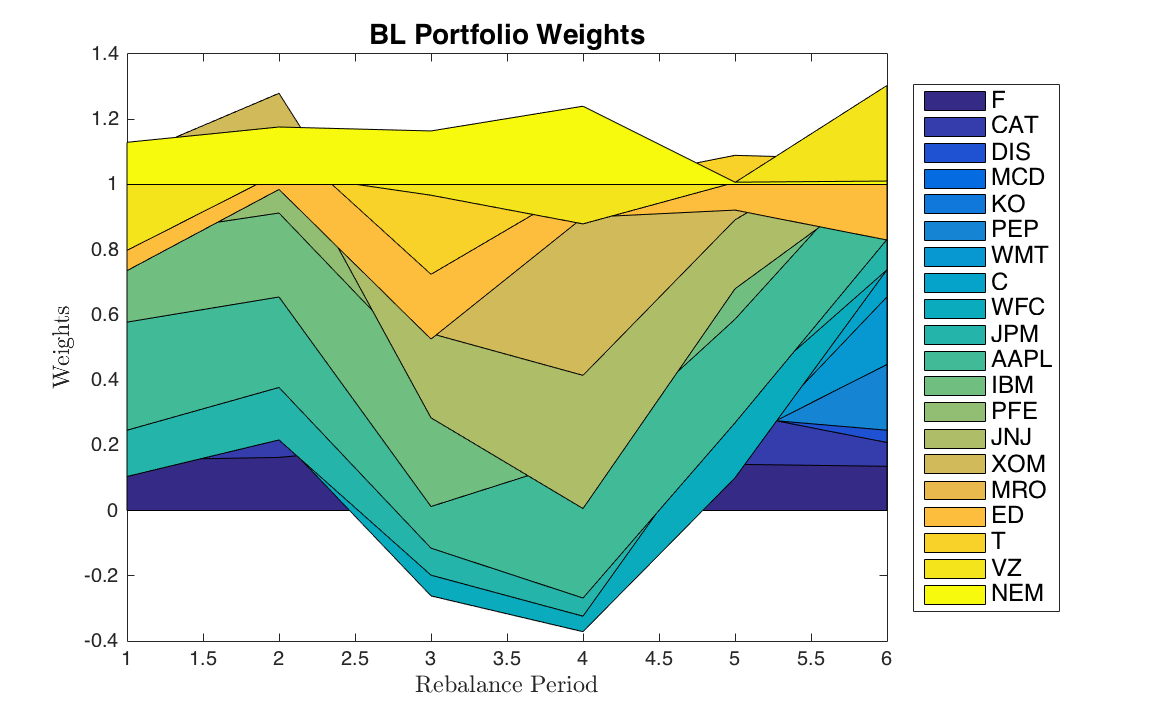
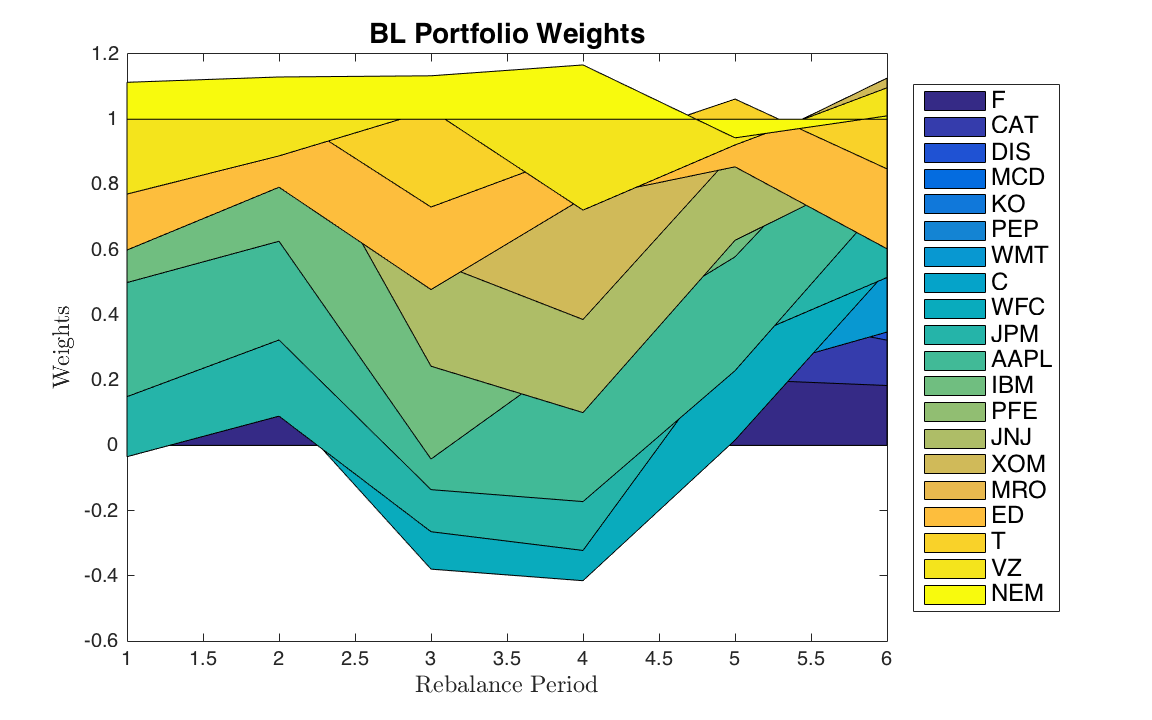
fixing bugs

diff --git a/Portfolio_Models.m b/Portfolio_Models.m
@@ -1,3 +1,8 @@
+clc
+clear all
+format long
+
+%%%%%%%%%%%%%%%%%%%%%%%%%%%%%%%%%%%%%%%%%%%%%%%%%%%%%%%%%%%%%%%%%%%%%%%%%%%
 %% 1. Read input files
 %%%%%%%%%%%%%%%%%%%%%%%%%%%%%%%%%%%%%%%%%%%%%%%%%%%%%%%%%%%%%%%%%%%%%%%%%%%
 
@@ -57,19 +62,17 @@ funList = cellfun(@str2func, funList, 'UniformOutput', false);
 % Maximum number of assets imposed by cardinality constraint
 card = 12;
 
-% Calculating current prices and returns, used for calculating market cap
-% required for a view in our B-L model
+% Get the returns from our assets during our testing period, to be used in
+% our black-litterman framework
 periodReturns = table2array( returns( calStart <= dates & dates <= calEnd, :) );
 currentPrices = table2array( adjClose( ( calEnd - days(7) ) <= dates ... 
                                                     & dates <= calEnd, :) )';
-
-% Let us randomly choose tau to be between 0.01 and 0.05
+                                                
+% let us randomly choose tau to be between 0.01 and 0.05
 tau = 0.05 / randi(5);
 
-% We will define 6 views, the first 2 will influence combined asset classes
-% and the rest will pertain to single stocks.
+% update the views we have
 [P, Omega, q] = BLParameters(tau, mktNoShares, periodReturns, currentPrices);
-
 %%%%%%%%%%%%%%%%%%%%%%%%%%%%%%%%%%%%%%%%%%%%%%%%%%%%%%%%%%%%%%%%%%%%%%%%%%%
 %% 3. Construct and rebalance your portfolios
 %%%%%%%%%%%%%%%%%%%%%%%%%%%%%%%%%%%%%%%%%%%%%%%%%%%%%%%%%%%%%%%%%%%%%%%%%%%
@@ -81,9 +84,15 @@ toDay = 0;
 % of each investing period. Value of the portfolio is also tracked daily in
 % a variable called portfValue declared later in this section.
 currentVal = zeros(NoPeriods, NoMethods);
+periodEndVal = zeros(NoPeriods, NoMethods);
 
 % tCost tracks the transcaction costs incurred from rebalancing
 tCost = zeros(NoPeriods-1, NoMethods);
+
+% Define the following to keep track of what we expect our portfolio to return 
+% return per period
+expectedReturns = zeros(NoPeriods, NoMethods);
+expectedVar = zeros(NoPeriods, NoMethods);
 
 % Define the following to keep track of our realized long term rate of
 % return. That is, what would be the daily return of the portfolio, benchmarked
@@ -95,7 +104,7 @@ avgReturnsInitial = zeros(NoPeriods, NoMethods);
 avgReturnsPeriod = zeros(NoPeriods, NoMethods);
 
 % Track the variance of each of our portfolio's value per period
-portVar = zeros(NoPeriods,NoMethods);
+portVarPeriod = zeros(NoPeriods,NoMethods);
 
 for t = 1:NoPeriods    
     % Subset the returns and factor returns corresponding to the current
@@ -129,26 +138,23 @@ for t = 1:NoPeriods
     %   -  epsilon is a size(periodReturns,1) by size(periodReturns,2)
     %      vector of idiosynratic noise
     
-    X = [ones(size(periodFactRet,1), 1) periodFactRet];
-    beta = zeros(4,20);
-    
-    for i=1:size(periodReturns,2)
-        beta(:,i) = regress( periodReturns(:,i),X);
-    end
-    
+    X = [ones(size(periodFactRet,1), 1) periodFactRet];    
+    beta = inv(X'*X)*X'*periodReturns;
+        
     % we calculuate our regression residuals and covariances
     epsilon = periodReturns-X*beta;
     D = cov(epsilon);
 
     % calculating the geometric mean of our factor returns 
     f_bar = [1 (geomean(X(:,2:end)+1) - 1)]';
-    F = cov(X(:,2:end));
+    F = cov(periodFactRet);
     
     % our expected asset returns
     mu = beta'*f_bar;
     
-    % our covariance matrix
-    Q = beta(2:end,:)'*F*beta(2:end,:) + D;
+    % our covariance matrix. Note that here, we do not assume ideal
+    % conditions.
+    Q = beta(2:end,:)'*F*beta(2:end,:) + diag(diag(D));
         
     % Define the target return for the 2 MVO portfolios
     targetRet = mean(mu);
@@ -157,7 +163,7 @@ for t = 1:NoPeriods
     mu_mkt = geomean(table2array(factorRet(:,1))+1)-1;
     var_mkt = var(table2array(factorRet(:,1)));
     lambda = mu_mkt/var_mkt;
-        
+    
     % optimize each portfolios to get the weights 'x'
     x{1}(:,t) = funList{1}(mu, Q, targetRet);
     x{2}(:,t) = funList{2}(mu, Q, targetRet, card);
@@ -180,12 +186,13 @@ for t = 1:NoPeriods
     end
     
     % Complete our per period analysis calculations
+    periodEndVal(t,:) = portfValue(toDay,:);
     initial_returns = (portfValue(fromDay:toDay,:) - initialVal) / initialVal;
     period_returns = ( portfValue(fromDay:toDay,:) - repmat(currentVal(t,:), size(portfValue(fromDay:toDay,:),1), 1) ) ./ repmat(currentVal(t,:), size(portfValue(fromDay:toDay,:),1), 1);
     
     avgReturnsInitial(t,:) = geomean(initial_returns + 1) - 1;
     avgReturnsPeriod(t,:) = geomean(period_returns + 1) - 1;
-    portVar(t,:) = [cov(period_returns(:,1)) cov(period_returns(:,2)) cov(period_returns(:,3))];
+    portRiskPeriod(t,:) = std(period_returns);
     
     % update your calibration and out-of-sample test periods
     calStart = calStart + calmonths(6);
@@ -193,7 +200,7 @@ for t = 1:NoPeriods
     
     testStart = testStart + calmonths(6);
     testEnd = testStart + calmonths(6) - days(1);
-        
+    
     % let us randomly choose tau to be between 0.01 and 0.05
     tau = 0.05 / randi(5);
 
@@ -216,6 +223,18 @@ avgReturnsInitial;
 % investing period. Tracks the return an investor can expect by investing
 % at each period. 
 avgReturnsPeriod;
+
+% calculate the value at risk after each period, based on the value of the
+% end porfolio at the end of each period, the average portfolio returns
+% over each period and the risk of each period. consider loss probability
+% levels of 1%, 5% and 10%.
+lossTolerance = [0.01, 0.05, 0.1];
+
+for i=1:NoMethods
+    for j=1:NoPeriods
+        vatrisk{i}(j,:) = portvrisk(avgReturnsPeriod(j,i), portRiskPeriod(j,i), lossTolerance, periodEndVal(j,i));
+    end
+end
 
 % maximum value of each portfolio and the realization date
 [maxVal, when_max] = max(portfValue);
@@ -320,6 +339,7 @@ pos1 = get(fig2,'Position');
 set(fig2,'PaperPositionMode','Auto','PaperUnits','Inches',...
     'PaperSize',[pos1(3), pos1(4)]);
 
+% If you want to save the figure as .png for use in MS Word
 print(fig2,'mvo-plot','-dpng','-r0');
 
 % MVO with Cardinality Constraints Plot
@@ -336,6 +356,10 @@ pos1 = get(fig3,'Position');
 set(fig3,'PaperPositionMode','Auto','PaperUnits','Inches',...
     'PaperSize',[pos1(3), pos1(4)]);
 
+% If you want to save the figure as .pdf for use in LaTeX
+% print(fig3,'fileName3','-dpdf','-r0');
+
+% If you want to save the figure as .png for use in MS Word
 print(fig3,'mvocard-plot','-dpng','-r0');
 
 % B-L Model Plot
@@ -352,5 +376,7 @@ pos1 = get(fig4,'Position');
 set(fig4,'PaperPositionMode','Auto','PaperUnits','Inches',...
     'PaperSize',[pos1(3), pos1(4)]);
 
+% If you want to save the figure as .png for use in MS Word
 print(fig4,'bl-plot','-dpng','-r0');
+
 %%%%%%%%%%%%%%%%%%%%%%%%%%%%%%%%%%%%%%%%%%%%%%%%%%%%%%%%%%%%%%%%%%%%%%%%%%%

diff --git a/MVO_card.m b/MVO_card.m
@@ -2,14 +2,32 @@ function  x_optimal = MVO_card(mu, Q, targetRet, card)
     % cardinality constraint - need to hold 12
     % no shortselling permitted
     
-    n = size(Q,1); 
+    n = size(Q,1);
+    
+    % upper asset bound set arbitarily high
+    upper_asset = 1e17;
+    % lower asset bound set arbitarily low
+    lower_asset = -1e17;
     
     % asset covariance matrix
     Q = [Q zeros(n); zeros(n,n*2)];
     
     % inequality constraints
-    % Upper & lower bound constraints
-    A = [mu' zeros(1,n)];
+    % lower bound constraints
+    lower = lower_asset * ones(n,1);
+    lower_A = [-eye(n) diag(lower)];
+    lower_b = zeros(n,1);
+    
+    % upper bound constraints
+    upper = upper_asset * ones(n,1);
+    upper_A = [eye(n) -diag(upper)];
+    upper_b = zeros(n,1);
+    
+    size(lower_A)
+    size(upper_A)
+    size([mu zeros(n, 1)])
+    
+    A = [lower_A; upper_A; [mu; zeros(n, 1)]'];
     b = targetRet;
     
     % equality constraints
@@ -30,8 +48,8 @@ function  x_optimal = MVO_card(mu, Q, targetRet, card)
     model.Q = sparse(Q);
     model.obj = zeros(1,n*2);
     model.A = [sparse(A); sparse(Aeq)];
-    model.rhs = [b; beq];
-    model.sense = ['>', '=', '='];
+    model.rhs = full([lower_b;upper_b;b;beq]);
+    model.sense = [repmat('<',2*n,1);'>';repmat('=',2,1)];
     model.vtype = var_types;
     model.ub = ub;
     model.lb = lb;

diff --git a/BLParameters.m b/BLParameters.m
@@ -8,7 +8,7 @@ function [ P, Omega, q ] = BLParameters(tau, mktNoShares, periodReturns, current
     % 1st View: Pertaining to Company side. Here we assumge that our 10 largest
     % market cap stocks will underperform our 10 smallest cap stocks by 2%
 
-    % We need to first sort (and keep track of indices) for our stocks     
+    % We need to first sort (and keep track of indices) for our stocks
     [order, I] = sort(mktNoShares.*currentPrices);
 
     for i=1:size(order,1)
@@ -22,8 +22,8 @@ function [ P, Omega, q ] = BLParameters(tau, mktNoShares, periodReturns, current
     % no idea why I need to do this but I apparently do
     clear oder clear I
 
-    % Outperformance of our ten largest by 2%
-    q(1) = 0.02;
+    % Outperformance of our ten largest by 3%
+    q(1) = 0.03;
 
     % We calculate our confidence in this view
     Omega(1,1) = tau * P(1,:) * Q * P(1,:)'; 

diff --git a/MVO.m b/MVO.m
@@ -8,7 +8,7 @@ function  x_optimal = MVO(mu, Q, targetRet)
     
     % A and b will be used for the constraint for our targetted return. 
     A = -mu';
-    b = targetRet;
+    b = -targetRet;
     
     % Aeq and beq will house our equality constraint, ensuring that the
     % proprotions in our portifolio sum to 1
